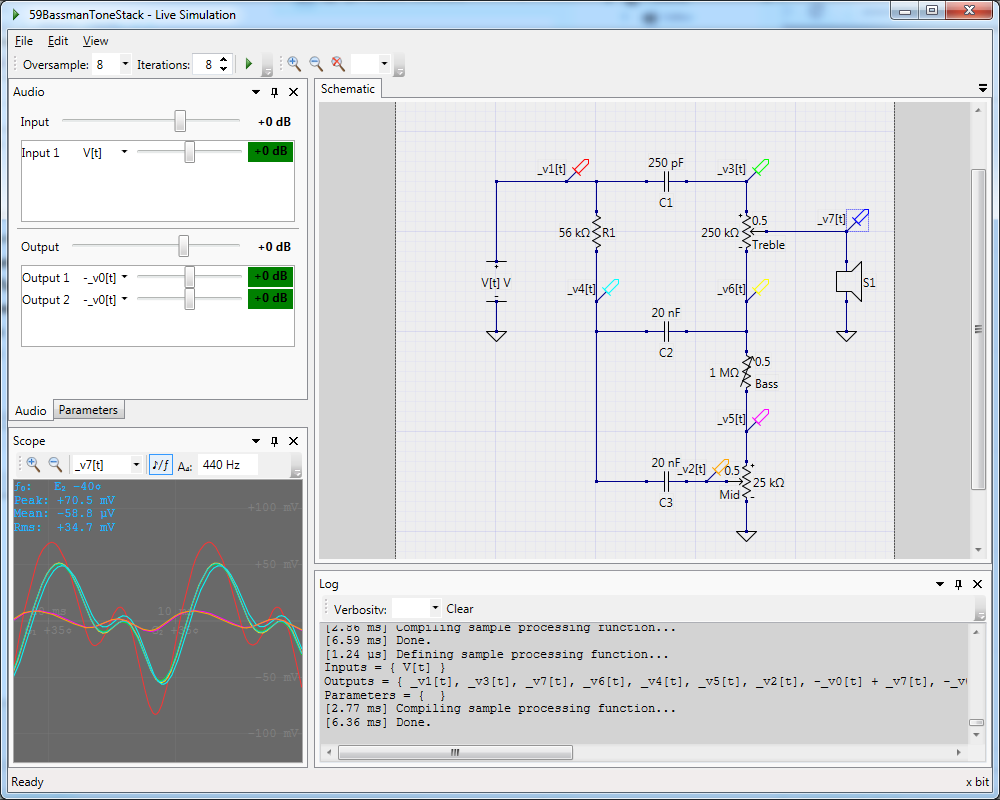
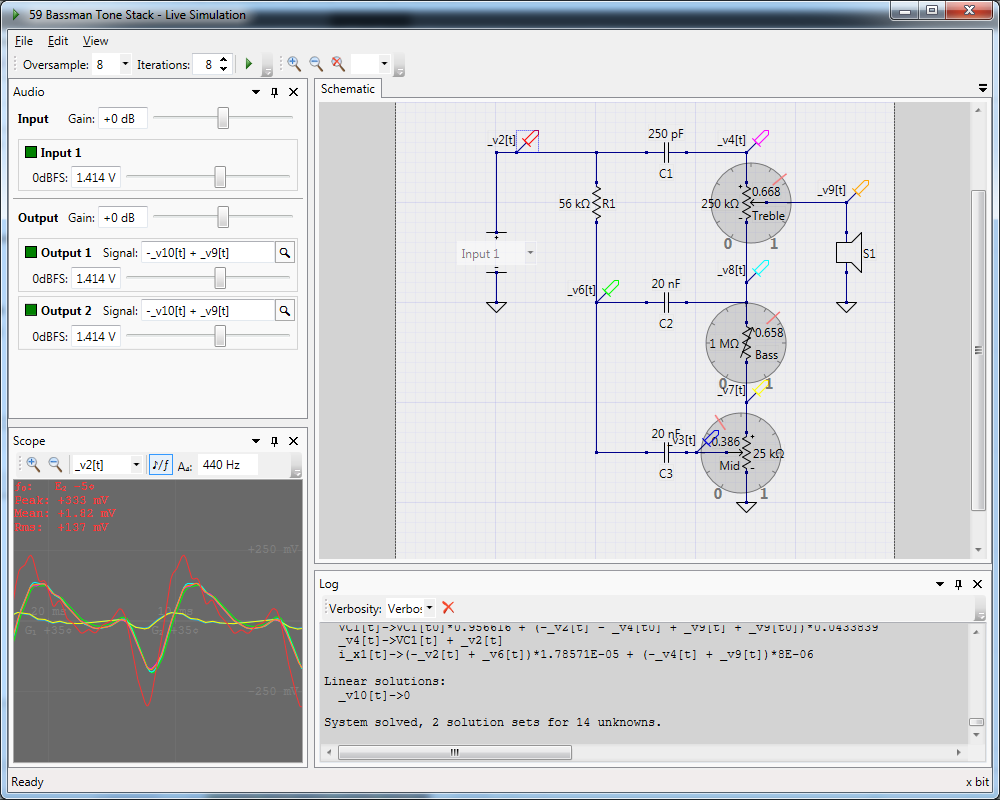
Updated screenshot

diff --git a/Website/index.html b/Website/index.html
@@ -152,8 +152,8 @@
 
                 <section id="features">
                     <h2>Features</h2>
-                    <div class="well captionbox" style="float:right;width:400px;"><a data-lightbox="examples" href="img/pots.png" title="Dynamic potentiometer controls.">
-                        <img src="img/pots.png" alt="Dynamic poteniometer controls."></a>
+                    <div class="well captionbox" style="float:right;width:400px;"><a data-lightbox="examples" href="img/bassmantonestack.png" title="Dynamic potentiometer controls.">
+                        <img src="img/bassmantonestack.png" alt="Dynamic poteniometer controls."></a>
                         <p><strong>Fender Bassman 5F6-A tone stack</strong> controls available during simulation.</p>
                     </div>
                     <p>The obligatory bullet point feature list:</p>
